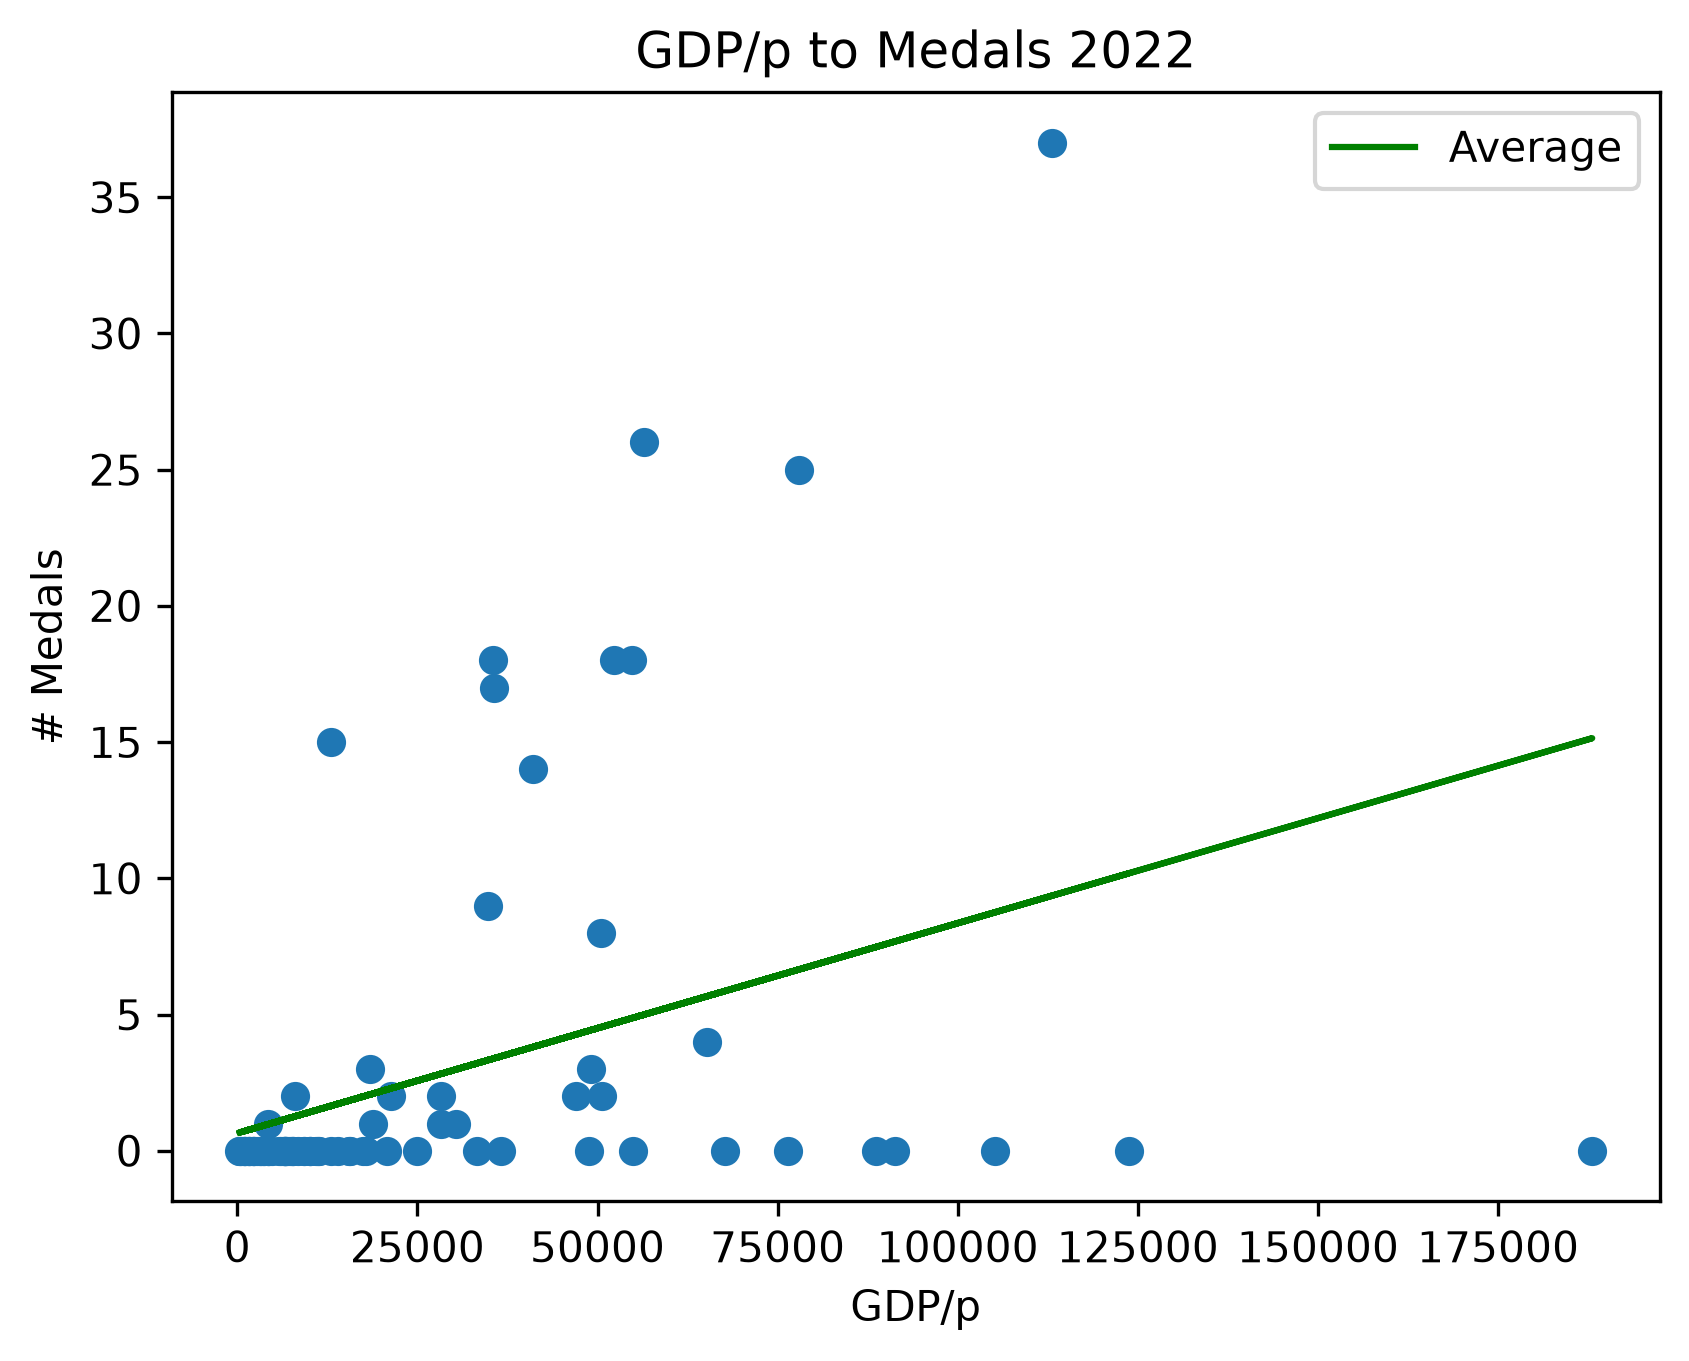
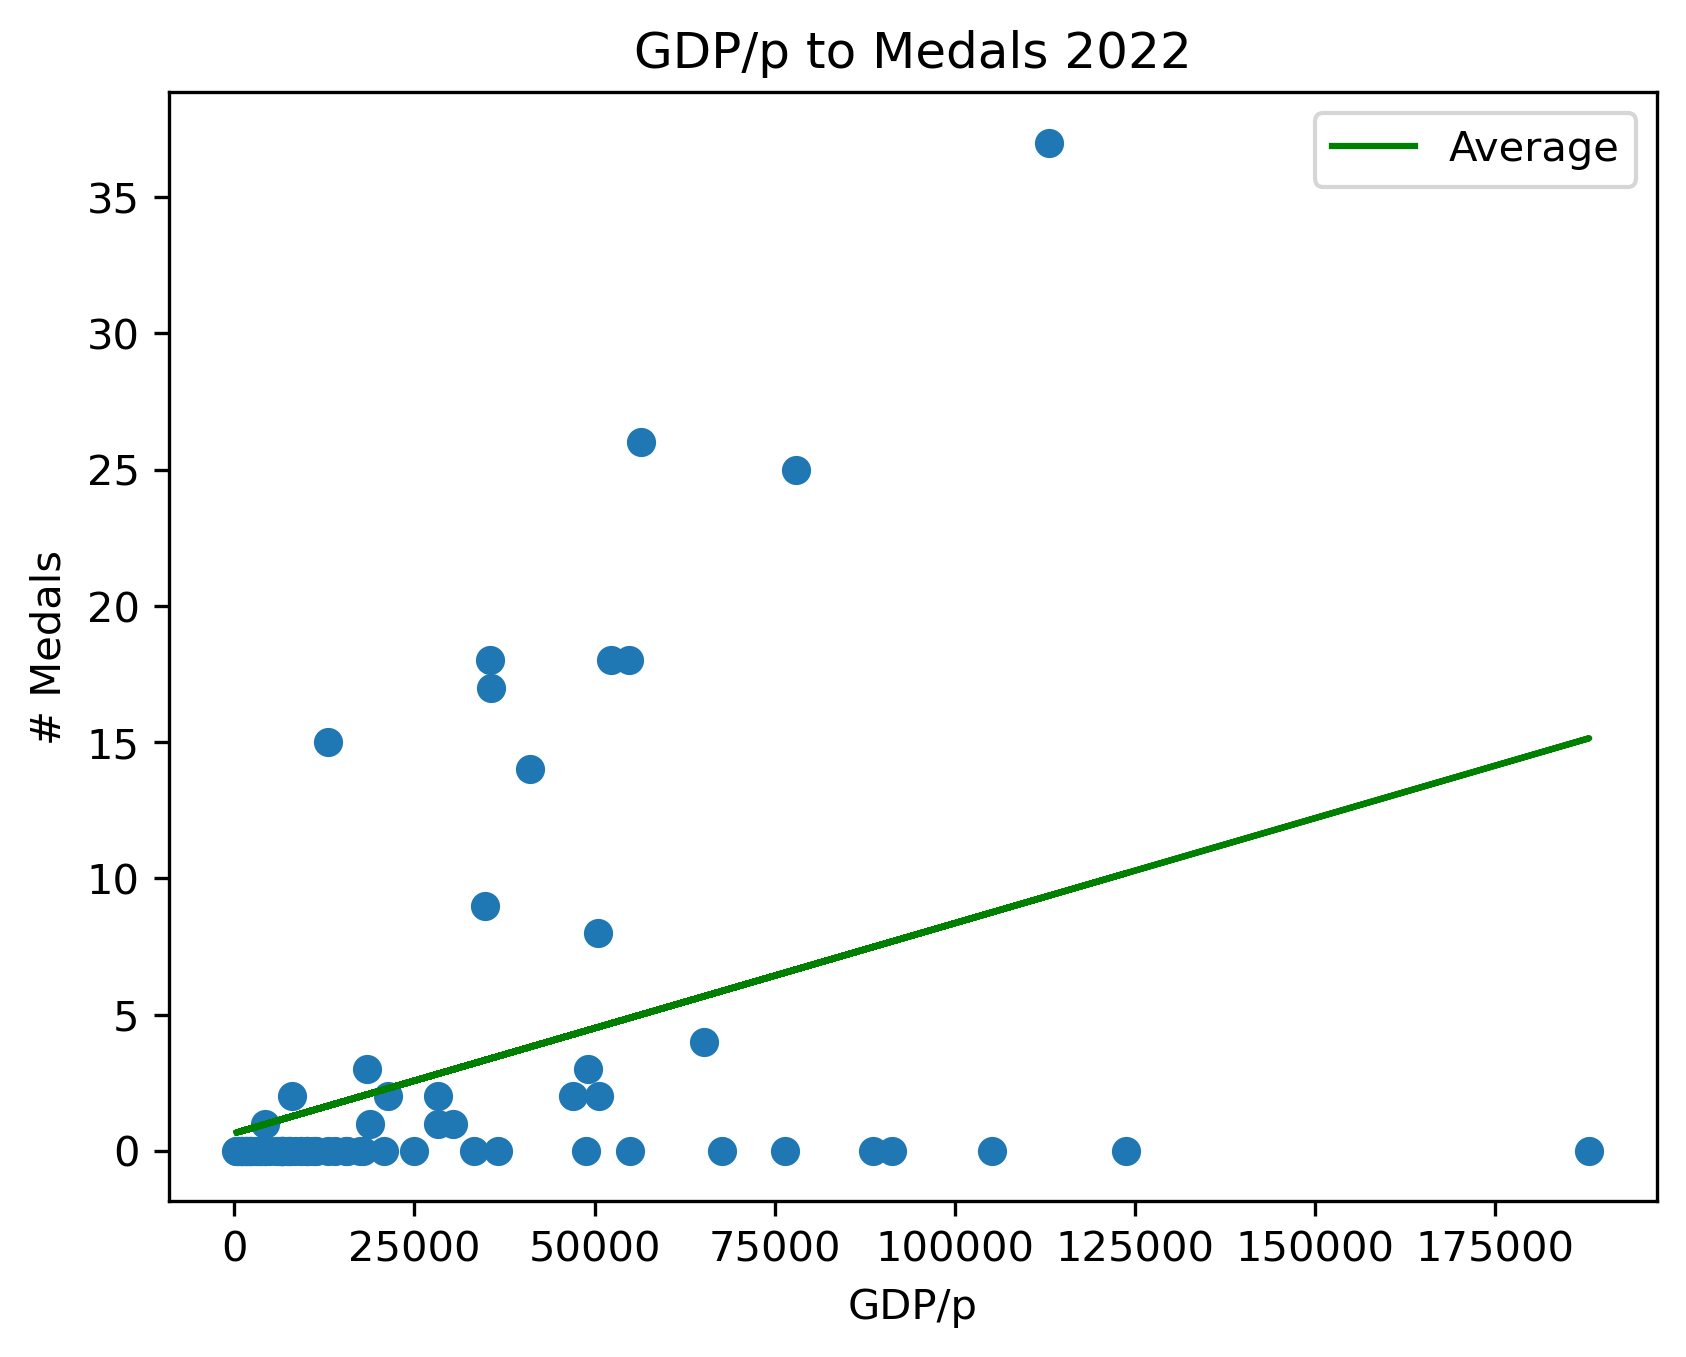
geändert:       README.md 	Wrote a short manual on how to start the script on Linux
geändert:       results/gdp_to_medals_2022.png
	geändert:       results/population_to_medals_2022.png
	geändert:       results/total_gdp_to_medals_2022.png
	geändert:       src/__pycache__/gdp_per_capita.cpython-314.pyc
	geändert:       src/__pycache__/medals.cpython-314.pyc
	geändert:       src/__pycache__/population.cpython-314.pyc
	geändert:       src/results.py

diff --git a/src/results.py b/src/results.py
@@ -30,7 +30,7 @@ def scatter(title: str, points: list[tuple[int, int]], x_axis: str, y_axis: str,
     plt.show()
 
 def wealth_to_medals(medal_data: MedalData, relgdp_data: GdpData, year=2022):
-    print(f"\n\nGDP/p to Medals for {year}")
+    print(f"\n\nGDP/p (per person) to Medals for {year}")
     points = []
     for country in relgdp_data.by_year[year]:
         gdp = relgdp_data.by_year[year][country]

diff --git a/README.md b/README.md
@@ -5,11 +5,20 @@
 
 If the CSV/XML files are still zip-compressed, please extract them directly below `data/`.
 While the parsers use built-in modules, we use `matplotlib` and `numpy` for the generation of results. You can enter the virtual environment and run the code:
+**On Windows**
 ```ps
-cd /src
+cd src/
 ./Scripts/Activate
 py results.py
 ```
+**On Linux**
+
+1. make sure you opend the src/ dir
+   before executing results.py 
+2. install numpy via pip install numpy 
+    or follow the instruction for your specific distro 
+3. python3 resource.py
+
 
 ## The Guidelines
 
@@ -37,6 +46,6 @@ py results.py
 
 ## The Plan
 
-1. Check the data.
+1. 
 2. Parse the data with Python.
 3. Pretty graphs.
